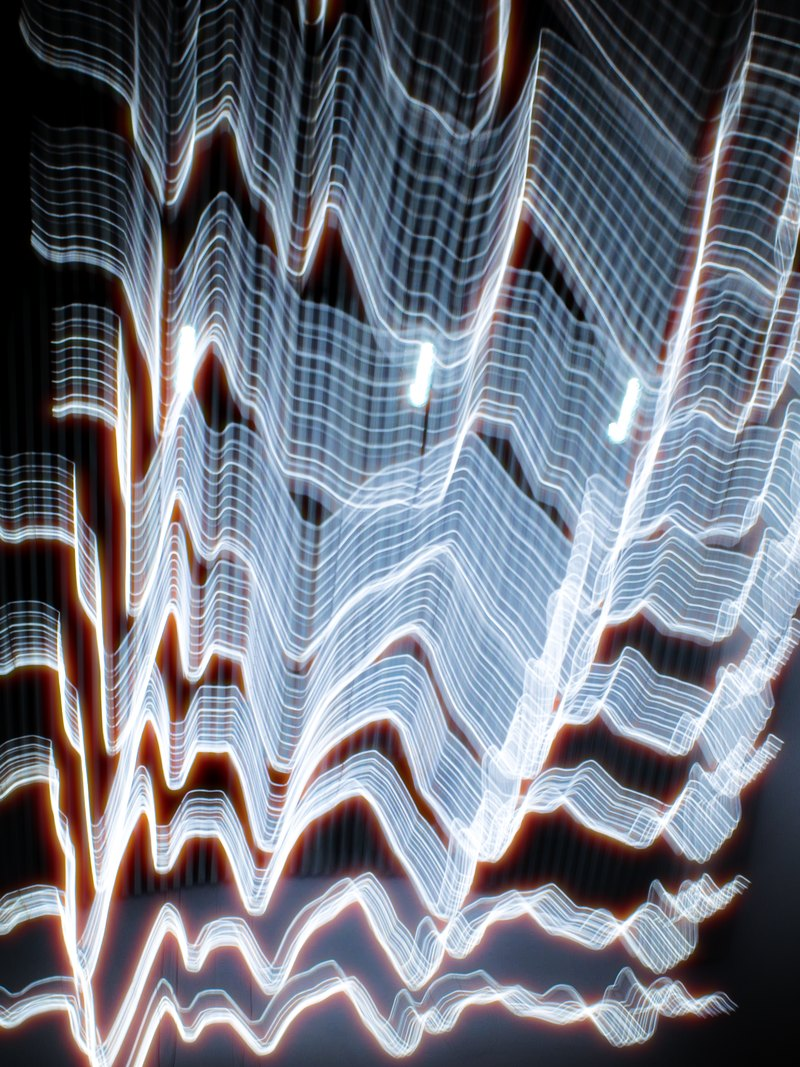
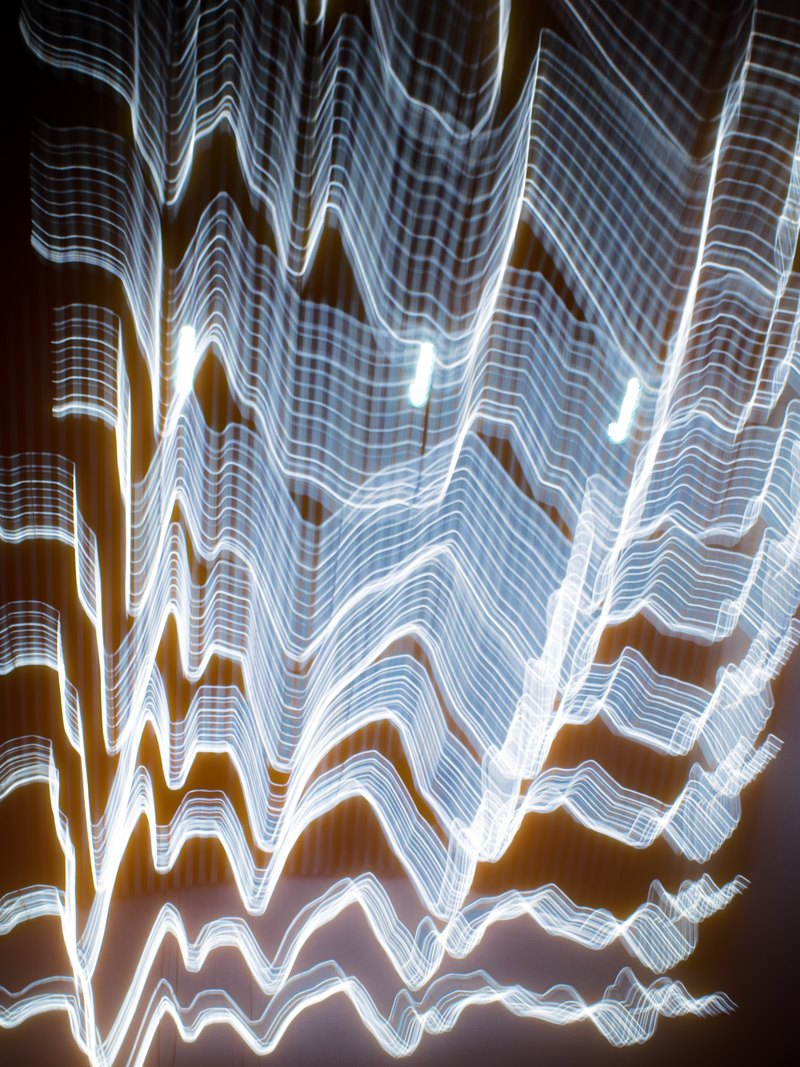
Cook round 4: Roll-off 1 for a softer glow, mist shown on lights, emulator stated, left-aligned sections, export depth and warmth wording fixed

diff --git a/index.html b/index.html
@@ -34,16 +34,16 @@
 </div></nav>
 <main id="main">
 <header class="sec hero" id="top"><div class="wrap">
-<div class="head head--c rise"><h1>Halation that knows where the light is.</h1><p class="lead">Halo Pro is a Mac app that puts film’s red-orange glow beside the brightest light in your photograph, where film would put it.</p><div class="acts"><a class="pill" href="https://alriclj.gumroad.com/l/HALO_PRO?variant=Halo%20Pro%20-%20FREE&amp;wanted=true">Download free</a><a class="textlink" href="https://alriclj.gumroad.com/l/HALO_PRO?variant=Halo%20Pro&amp;wanted=true">Buy Pro for €20</a></div><p class="terms">macOS 14 or later on Apple Silicon. Free for personal work, with every control.</p></div>
+<div class="head head--c rise"><h1>Halation that knows where the light is.</h1><p class="lead">Halo Pro is a halation emulator for the Mac. It puts film’s red-orange glow beside the brightest light in your photograph, where film would put it.</p><div class="acts"><a class="pill" href="https://alriclj.gumroad.com/l/HALO_PRO?variant=Halo%20Pro%20-%20FREE&amp;wanted=true">Download free</a><a class="textlink" href="https://alriclj.gumroad.com/l/HALO_PRO?variant=Halo%20Pro&amp;wanted=true">Buy Pro for €20</a></div><p class="terms">macOS 14 or later on Apple Silicon. Free for personal work, with every control.</p></div>
 </div>
-<div class="stagewide rise"><figure class="flip flip--overlay"><div class="flip-tabs" role="group" aria-label="Which version to show"><button type="button" aria-pressed="false">As opened</button><button type="button" aria-pressed="true">Halo Pro</button></div><div class="flip-frame"><img src="img/cook/hero-opened.jpg" width="1800" height="900" alt="A glass facade at dusk as the file was opened: lit white fins against a dark blue sky" loading="eager" decoding="async"><img class="is-on" src="img/cook/hero-halo.jpg" width="1800" height="900" alt="The same photograph exported from Halo Pro: each lit fin carries a red-orange glow that fades into the dark sky" loading="eager" decoding="async"></div><figcaption class="cap">A lit facade at dusk, as opened and exported at the Default look with Format Super 8. Tap the picture to switch.</figcaption></figure></div>
+<div class="stagewide rise"><figure class="flip flip--overlay"><div class="flip-tabs" role="group" aria-label="Which version to show"><button type="button" aria-pressed="false">As opened</button><button type="button" aria-pressed="true">Halo Pro</button></div><div class="flip-frame"><img src="img/cook/hero-opened.jpg" width="1800" height="900" alt="A glass facade at dusk as the file was opened: lit white fins against a dark blue sky" loading="eager" decoding="async"><img class="is-on" src="img/cook/hero-halo.jpg" width="1800" height="900" alt="The same photograph exported from Halo Pro: each lit fin carries a red-orange glow that fades into the dark sky" loading="eager" decoding="async"></div><figcaption class="cap">A lit facade at dusk: the Default look with Format 16 mm and Roll-off 1. Tap the picture to switch.</figcaption></figure></div>
 </header>
-<section class="sec" id="app"><div class="wrap"><div class="head head--c rise"><h2>Set the glow in one window.</h2><p class="lead">Open a TIFF, PNG or JPEG. Amount sets how much light comes back, Size and the film Format how far it spreads.</p></div></div><div class="window rise"><div class="win-bar" aria-hidden="true"><i></i><i></i><i></i><span>Halo Pro</span></div><picture><source media="(max-width: 700px)" srcset="img/cook/window-phone.jpg"><img src="img/cook/window.jpg" width="2400" height="1450" alt="The Halo Pro window: a photograph in the middle, the Halation controls on the right with Amount, Size and Format" loading="lazy" decoding="async"></picture><p class="cap">Halo Pro 2.3 with the same photograph open: the Default look, Format Super 8.</p></div><div class="wrap"><div class="facts rise"><div class="fact"><b>32-bit float</b><span>at every step, from opening the file to writing it out.</span></div><div class="fact"><b>0.9 seconds</b><span>for a 12-megapixel export on an M3 Max.</span></div><div class="fact"><b>Your profile kept</b><span>sRGB, Display P3, Adobe RGB or ProPhoto RGB: the glow looks the same in each.</span></div></div></div></section>
-<section class="sec" id="made"><div class="wrap"><div class="head head--c rise"><h2>Made with Halo Pro.</h2><p class="lead">Photographs exported from Halo Pro. Switch to As opened to see the files before, or tap a picture.</p></div></div><div class="wrap"><div class="flip-tabs flip-tabs--all" role="group" aria-label="Show every picture as"><button type="button" aria-pressed="false" data-all="0">As opened</button><button type="button" aria-pressed="true" data-all="1">Halo Pro</button></div></div><div class="gallery rise"><div class="row row--12"><figure class="flip flip--quiet"><div class="flip-tabs" role="group" aria-label="Which version to show"><button type="button" aria-pressed="false">As opened</button><button type="button" aria-pressed="true">Halo Pro</button></div><div class="flip-frame"><img src="img/cook/g-trails-opened.jpg" width="800" height="1067" alt="White light trails drawn across a dark frame, as opened" loading="lazy" decoding="async"><img class="is-on" src="img/cook/g-trails-halo.jpg" width="800" height="1067" alt="White light trails drawn across a dark frame, exported from Halo Pro with a red-orange glow at the lights" loading="lazy" decoding="async"></div><figcaption class="cap">Light trails. Default look, Format 16 mm.</figcaption></figure><figure class="flip flip--quiet"><div class="flip-tabs" role="group" aria-label="Which version to show"><button type="button" aria-pressed="false">As opened</button><button type="button" aria-pressed="true">Halo Pro</button></div><div class="flip-frame"><img src="img/cook/g-water-opened.jpg" width="1600" height="1067" alt="A figure with an oar against the sun on water, the shoreline lit, as opened" loading="lazy" decoding="async"><img class="is-on" src="img/cook/g-water-halo.jpg" width="1600" height="1067" alt="A figure with an oar against the sun on water, the shoreline lit, exported from Halo Pro with a red-orange glow at the lights" loading="lazy" decoding="async"></div><figcaption class="cap">Low sun on water. Default look, Format Super 8.</figcaption></figure></div><div class="row row--21"><figure class="flip flip--quiet"><div class="flip-tabs" role="group" aria-label="Which version to show"><button type="button" aria-pressed="false">As opened</button><button type="button" aria-pressed="true">Halo Pro</button></div><div class="flip-frame"><img src="img/cook/g-skiers-opened.jpg" width="1600" height="1067" alt="Two skiers on a ridge against a low sun, snow spray lit from behind, as opened" loading="lazy" decoding="async"><img class="is-on" src="img/cook/g-skiers-halo.jpg" width="1600" height="1067" alt="Two skiers on a ridge against a low sun, snow spray lit from behind, exported from Halo Pro with a red-orange glow at the lights" loading="lazy" decoding="async"></div><figcaption class="cap">Skiers against the sun. Default look, Format Super 8.</figcaption></figure><figure class="flip flip--quiet"><div class="flip-tabs" role="group" aria-label="Which version to show"><button type="button" aria-pressed="false">As opened</button><button type="button" aria-pressed="true">Halo Pro</button></div><div class="flip-frame"><img src="img/cook/g-lights-opened.jpg" width="800" height="1067" alt="Out-of-focus lights on black, as opened" loading="lazy" decoding="async"><img class="is-on" src="img/cook/g-lights-halo.jpg" width="800" height="1067" alt="Out-of-focus lights on black, exported from Halo Pro with a red-orange glow at the lights" loading="lazy" decoding="async"></div><figcaption class="cap">Lights at night. Default look, Format Super 8.</figcaption></figure></div></div><div class="wrap"><p class="cap gallery-note">The Default look has Mist at Density 0.30 and Warmth on highlights 1. Each picture was exported as it came out.</p></div></section>
-<section class="sec" id="light"><div class="wrap"><div class="head rise"><h2>Bright areas keep their colour.</h2><p class="lead">The usual shortcut blurs everything bright and tints it red, so a pale sky turns pink and a grey wall goes warm. Halo Pro works out where film would send light back: the glow lands beside the lights, and a bright surface keeps the colour it had.</p></div></div><div class="wrap"><figure class="stack stack--3 rise"><div class="stack-i"><p class="stack-l">As opened</p><img src="img/cook/ridge-opened.jpg" width="1000" height="667" alt="A figure on a ridge against a pale blue-white sky, as opened" loading="lazy" decoding="async"></div><div class="stack-i"><p class="stack-l">Red blur</p><img src="img/cook/ridge-blur.jpg" width="1000" height="667" alt="The same detail through a red blur: the sky behind the figure has turned pink" loading="lazy" decoding="async"></div><div class="stack-i"><p class="stack-l">Halo Pro</p><img src="img/cook/ridge-halo.jpg" width="1000" height="667" alt="The same detail from Halo Pro: the sky is the colour it was, with a red-orange glow along the ridge and the figure" loading="lazy" decoding="async"></div><figcaption class="cap">A figure on a ridge, shown at full size. Red blur: our own render, everything bright blurred and tinted. Halo Pro: halation only, Format 16 mm, Amount 1, Warmth on highlights 0, Mist off.</figcaption></figure></div><div class="stagewide rise"><figure class="flip"><div class="flip-tabs" role="group" aria-label="Which version to show"><button type="button" aria-pressed="false">As opened</button><button type="button" aria-pressed="true">Halo Pro</button></div><div class="flip-frame"><img src="img/cook/hair-opened.jpg" width="1800" height="1011" alt="A skier in a helmet and goggles, backlit, hair blowing out against a blue sky with out-of-focus blue lights, as opened" loading="lazy" decoding="async"><img class="is-on" src="img/cook/hair-halo.jpg" width="1800" height="1011" alt="The same photograph from Halo Pro: the backlit hair carries a red-orange glow; the helmet, the sky and the blue lights are as they were" loading="lazy" decoding="async"></div><figcaption class="cap">Backlit hair, halation only at Format 16 mm, Amount 1, Warmth on highlights 0, Mist off. The helmet, the sky and the blue lights measure the same as opened.</figcaption></figure></div></section>
+<section class="sec" id="app"><div class="wrap"><div class="head rise"><h2>Set the glow in one window.</h2><p class="lead">Open a TIFF, PNG or JPEG, set how much light comes back and how far it spreads, and export.</p></div></div><div class="window rise"><div class="win-bar" aria-hidden="true"><i></i><i></i><i></i><span>Halo Pro</span></div><picture><source media="(max-width: 700px)" srcset="img/cook/window-phone.jpg"><img src="img/cook/window.jpg" width="2400" height="1450" alt="The Halo Pro window: a photograph in the middle, the Halation controls on the right with Amount, Size and Format" loading="lazy" decoding="async"></picture><p class="cap">Halo Pro 2.3 with the same photograph open: the Default look, Format Super 8.</p></div><div class="wrap"><div class="facts rise"><div class="fact"><b>32-bit float</b><span>at every step, from opening the file to writing it out.</span></div><div class="fact"><b>0.9 seconds</b><span>for a 12-megapixel export on an M3 Max.</span></div><div class="fact"><b>Your profile kept</b><span>sRGB, Display P3, Adobe RGB or ProPhoto RGB: the glow looks the same in each.</span></div></div></div></section>
+<section class="sec" id="made"><div class="wrap"><div class="head rise"><h2>Made with Halo Pro.</h2><p class="lead">Photographs exported from Halo Pro.</p></div></div><div class="wrap"><div class="flip-tabs flip-tabs--all" role="group" aria-label="Show every picture as"><button type="button" aria-pressed="false" data-all="0">As opened</button><button type="button" aria-pressed="true" data-all="1">Halo Pro</button></div></div><div class="gallery rise"><div class="row row--21"><figure class="flip flip--quiet"><div class="flip-tabs" role="group" aria-label="Which version to show"><button type="button" aria-pressed="false">As opened</button><button type="button" aria-pressed="true">Halo Pro</button></div><div class="flip-frame"><img src="img/cook/g-fjord-opened.jpg" width="1600" height="1067" alt="Two hands framing a fjord with snowy mountains and a lit town, as opened" loading="lazy" decoding="async"><img class="is-on" src="img/cook/g-fjord-halo.jpg" width="1600" height="1067" alt="Two hands framing a fjord with snowy mountains and a lit town, exported from Halo Pro with a soft red-orange glow beside the lights" loading="lazy" decoding="async"></div><figcaption class="cap">A fjord framed by two hands.</figcaption></figure><figure class="flip flip--quiet"><div class="flip-tabs" role="group" aria-label="Which version to show"><button type="button" aria-pressed="false">As opened</button><button type="button" aria-pressed="true">Halo Pro</button></div><div class="flip-frame"><img src="img/cook/g-trails-opened.jpg" width="800" height="1067" alt="White light trails drawn across a dark frame, as opened" loading="lazy" decoding="async"><img class="is-on" src="img/cook/g-trails-halo.jpg" width="800" height="1067" alt="White light trails drawn across a dark frame, exported from Halo Pro with a soft red-orange glow beside the lights" loading="lazy" decoding="async"></div><figcaption class="cap">Light trails.</figcaption></figure></div><div class="row row--12"><figure class="flip flip--quiet"><div class="flip-tabs" role="group" aria-label="Which version to show"><button type="button" aria-pressed="false">As opened</button><button type="button" aria-pressed="true">Halo Pro</button></div><div class="flip-frame"><img src="img/cook/g-lights-opened.jpg" width="800" height="1067" alt="Out-of-focus lights on black, as opened" loading="lazy" decoding="async"><img class="is-on" src="img/cook/g-lights-halo.jpg" width="800" height="1067" alt="Out-of-focus lights on black, exported from Halo Pro with a soft red-orange glow beside the lights" loading="lazy" decoding="async"></div><figcaption class="cap">Lights at night.</figcaption></figure><figure class="flip flip--quiet"><div class="flip-tabs" role="group" aria-label="Which version to show"><button type="button" aria-pressed="false">As opened</button><button type="button" aria-pressed="true">Halo Pro</button></div><div class="flip-frame"><img src="img/cook/g-water-opened.jpg" width="1600" height="1067" alt="A figure with an oar against the sun on water, the shoreline lit, as opened" loading="lazy" decoding="async"><img class="is-on" src="img/cook/g-water-halo.jpg" width="1600" height="1067" alt="A figure with an oar against the sun on water, the shoreline lit, exported from Halo Pro with a soft red-orange glow beside the lights" loading="lazy" decoding="async"></div><figcaption class="cap">Low sun on water.</figcaption></figure></div></div><div class="wrap"><p class="cap gallery-note">All four: the Default look (Mist at Density 0.30, Warmth on highlights 1) with Format 16 mm and Roll-off 1, exported as it came out.</p></div></section>
+<section class="sec" id="light"><div class="wrap"><div class="head rise"><h2>Bright areas keep their colour.</h2><p class="lead">The usual shortcut blurs everything bright and tints it red, so a pale sky turns pink and a grey wall goes warm. Halo Pro works out where film would send light back: the glow lands beside the lights, and a bright surface gets no red cast.</p></div></div><div class="wrap"><figure class="stack stack--3 rise"><div class="stack-i"><p class="stack-l">As opened</p><img src="img/cook/ridge-opened.jpg" width="1000" height="667" alt="A figure on a ridge against a pale blue-white sky, as opened" loading="lazy" decoding="async"></div><div class="stack-i"><p class="stack-l">Red blur</p><img src="img/cook/ridge-blur.jpg" width="1000" height="667" alt="The same detail through a red blur: the sky behind the figure has turned pink" loading="lazy" decoding="async"></div><div class="stack-i"><p class="stack-l">Halo Pro</p><img src="img/cook/ridge-halo.jpg" width="1000" height="667" alt="The same detail from Halo Pro: the sky is the colour it was, with a red-orange glow along the ridge and the figure" loading="lazy" decoding="async"></div><figcaption class="cap">A figure on a ridge, shown at full size. Red blur: our own render, everything bright blurred and tinted. Halo Pro: halation only, Format 16 mm, Amount 1, Warmth on highlights 0, Mist off.</figcaption></figure></div><div class="stagewide rise"><figure class="flip"><div class="flip-tabs" role="group" aria-label="Which version to show"><button type="button" aria-pressed="false">As opened</button><button type="button" aria-pressed="true">Halo Pro</button></div><div class="flip-frame"><img src="img/cook/hair-opened.jpg" width="1800" height="1011" alt="A skier in a helmet and goggles, backlit, hair blowing out against a blue sky with out-of-focus blue lights, as opened" loading="lazy" decoding="async"><img class="is-on" src="img/cook/hair-halo.jpg" width="1800" height="1011" alt="The same photograph from Halo Pro: the backlit hair carries a red-orange glow; the helmet, the sky and the blue lights are as they were" loading="lazy" decoding="async"></div><figcaption class="cap">Backlit hair, halation only at Format 16 mm, Amount 1, Warmth on highlights 0, Mist off. The helmet, the sky and the blue lights measure the same as opened.</figcaption></figure></div></section>
 <section class="sec" id="lightroom"><div class="wrap"><div class="head rise"><h2>Lightroom has halation now. Compare.</h2><p class="lead">One test file through Lightroom’s Halation at its smallest Spread, and through Halo Pro with a glow a little wider. In Lightroom the light grey turns pink and the cyan almost white, and the red end gets no glow. Halo Pro keeps the bars’ colours and glows red and orange where film would.</p></div></div><div class="wrap"><figure class="stack stack--1 rise"><div class="stack-i"><p class="stack-l">Test file</p><img src="img/cook/bars-source.jpg" width="1808" height="530" alt="Three bars of light on black: a white bar fading to dark, a grey bar with a hot white centre, and a full spectrum from red through blue, green and yellow to orange" loading="lazy" decoding="async"></div><div class="stack-i"><p class="stack-l">Lightroom 10.0</p><img src="img/cook/bars-lightroom.jpg" width="1808" height="530" alt="The bars through Lightroom’s Halation: a pink-red haze around the bright parts, the grey and pale parts of the bars turned pink and white, no glow at the red end" loading="lazy" decoding="async"></div><div class="stack-i"><p class="stack-l">Halo Pro 2.3</p><img src="img/cook/bars-halopro.jpg" width="1808" height="530" alt="The bars through Halo Pro: the bars keep their colours, a red-orange glow at the white end and along the red and orange parts of the spectrum, none at the blue" loading="lazy" decoding="async"></div></figure></div><div class="wrap"><div class="numbers rise"><div class="num"><b>36% <em>/</em> 2.7%</b><span>of the pixels inside the bars changed by more than 8 levels: Lightroom, then Halo Pro.</span></div><div class="num"><b>210 → 253</b><span>A light grey of 210 comes out of Lightroom at 253, 213, 214: pink. Halo Pro leaves it at 210.</span></div><div class="num"><b>0 <em>/</em> 96</b><span>Levels of red glow beside the red end of the spectrum, out of 255: Lightroom, then Halo Pro.</span></div></div><p class="cap">An 8-bit test file 2,048 pixels wide. Lightroom 10.0, Halation, Spread 0, as exported. Halo Pro 2.3, Format Super 8, Amount 1, Warmth on highlights 0, Mist off. Their glows reach 24 and 30 pixels past the white bar.</p></div></section>
-<section class="sec" id="mist"><div class="wrap"><div class="head head--c rise"><h2>Mist, chosen after the shoot.</h2><p class="lead">A mist filter on the lens scatters highlight light into the shadows. In Halo Pro it is its own stage after the halation, with <b>Density</b> and <b>Spread</b> you can change until you export.</p></div></div><div class="wrap"><figure class="stack stack--2 rise"><div class="stack-i"><p class="stack-l">Mist off</p><img src="img/cook/mist-off.jpg" width="1200" height="800" alt="Two skiers against a low sun with halation only: a hard bright sun and clear dark snow below" loading="lazy" decoding="async"></div><div class="stack-i"><p class="stack-l">Mist on</p><img src="img/cook/mist-on.jpg" width="1200" height="800" alt="The same export with Mist on: the sun spreads into a soft veil over the skiers, and the dark snow lifts" loading="lazy" decoding="async"></div><figcaption class="cap">Skiers against a low sun, the same halation in both (Format 16 mm). Mist on: Density 1.00, Spread 50, Softness 1.00. The Default look uses Density 0.30, a much lighter veil.</figcaption></figure></div></section>
-<section class="sec" id="workflow"><div class="wrap"><div class="head rise"><h2>Fits anywhere a TIFF does.</h2><p class="lead">Use it at the end of the edit or in the middle of a grade. A 16-bit TIFF comes back at 16 bits, a 32-bit float TIFF as float.</p></div></div><div class="wrap"><ol class="chain rise" aria-label="Where Halo Pro sits"><li><b>Raw developer</b><span>or the retouch</span></li><li><b>TIFF</b><span>16-bit or 32-bit float</span></li><li class="is-hp"><b>Halo Pro</b><span>halation, mist</span></li><li><b>TIFF</b><span>same profile</span></li><li><b>Grade, grain</b><span>and delivery</span></li></ol></div><div class="wrap"><div class="rows rise"><div class="row-i"><h3>Round trip</h3><p>From Lightroom Classic, Edit In hands over a TIFF and Save and return writes a 16-bit TIFF back.</p></div><div class="row-i"><h3>Before grain</h3><p>Run it before grain, so the grain sits on top of the glow.</p></div><div class="row-i"><h3>32-bit float</h3><p>A 32-bit float TIFF holds light above white, and there a sun glows more than a white shirt. A 32-bit float export keeps that light, unless a LUT after the mist, or Bloom, clips it.</p></div><div class="row-i"><h3>Volume</h3><p>Batch Mode takes up to 500 files, each with its own settings; Apply to All copies one look across the set.</p></div></div><p class="cap">No raw files: send a TIFF. One .cube LUT sits before the halation or after the mist. The round trip and Batch Mode need Pro.</p></div></section>
+<section class="sec" id="mist"><div class="wrap"><div class="head rise"><h2>Mist, chosen after the shoot.</h2><p class="lead">A mist filter on the lens scatters highlight light into the shadows. Here it is a stage after the halation, and its strength stays open until you export.</p></div></div><div class="wrap"><figure class="stack stack--2 rise"><div class="stack-i"><p class="stack-l">Mist off</p><img src="img/cook/mist-off.jpg" width="1366" height="911" alt="Out-of-focus lights on black with halation only: a red-orange rim on each light and hard black between them" loading="lazy" decoding="async"></div><div class="stack-i"><p class="stack-l">Mist on</p><img src="img/cook/mist-on.jpg" width="1366" height="911" alt="The same export with Mist on: a soft pale veil spreads from the lights across the black" loading="lazy" decoding="async"></div><figcaption class="cap">Lights at night, the same halation in both (Format 16 mm). Mist on: Density 1.00, Spread 50, Softness 1.00. The Default look uses Density 0.30, a much lighter veil.</figcaption></figure></div></section>
+<section class="sec" id="workflow"><div class="wrap"><div class="head rise"><h2>Fits anywhere a TIFF does.</h2><p class="lead">Use it at the end of the edit or in the middle of a grade. Open a 16-bit or 32-bit float TIFF and export at 16 bits or as 32-bit float.</p></div></div><div class="wrap"><ol class="chain rise" aria-label="Where Halo Pro sits"><li><b>Raw developer</b><span>or the retouch</span></li><li><b>TIFF</b><span>16-bit or 32-bit float</span></li><li class="is-hp"><b>Halo Pro</b><span>halation, mist</span></li><li><b>TIFF</b><span>same profile</span></li><li><b>Grade, grain</b><span>and delivery</span></li></ol></div><div class="wrap"><div class="rows rise"><div class="row-i"><h3>Round trip</h3><p>From Lightroom Classic, Edit In hands over a TIFF and Save and return writes a 16-bit TIFF back.</p></div><div class="row-i"><h3>Before grain</h3><p>Run it before grain, so the grain sits on top of the glow.</p></div><div class="row-i"><h3>32-bit float</h3><p>A 32-bit float TIFF holds light above white, and there a sun glows more than a white shirt. A 32-bit float export keeps that light, unless a LUT after the mist, or Bloom, clips it.</p></div><div class="row-i"><h3>Volume</h3><p>Batch Mode takes up to 500 files, each with its own settings; Apply to All copies one look across the set.</p></div></div><p class="cap">No raw files: send a TIFF. One .cube LUT sits before the halation or after the mist. The round trip and Batch Mode need Pro.</p></div></section>
 <section class="sec" id="price"><div class="wrap"><div class="head rise"><h2>Free for personal work, €20 for paid.</h2><p class="lead">Bought once, no subscription.</p></div></div><div class="wrap"><div class="plans rise"><div class="plan"><h3>Free</h3><p class="price">€0</p><p>Personal use. Every control and mask view, LUTs and presets, full-resolution export up to 32-bit float. A licence screen at each launch.</p><a class="pill pill--ghost" href="https://alriclj.gumroad.com/l/HALO_PRO?variant=Halo%20Pro%20-%20FREE&amp;wanted=true">Download</a></div><div class="plan plan--main"><h3>Halo Pro</h3><p class="price">€20 <small>once</small></p><p>Paid work, for one person. Adds Lightroom Mode (Edit In, Save and return) and Batch Mode.</p><a class="pill" href="https://alriclj.gumroad.com/l/HALO_PRO?variant=Halo%20Pro&amp;wanted=true">Buy Halo Pro</a></div><div class="plan"><h3>Organisation</h3><p class="price">€60 <small>once</small></p><p>Studios and companies, for several people. Everything in Halo Pro.</p><a class="pill pill--ghost" href="https://alriclj.gumroad.com/l/HALO_PRO?variant=Halo%20Pro%20-%20Organisation&amp;wanted=true">Buy for an organisation</a></div></div><div class="small-print"><p>macOS 14 Sonoma or later on a Mac with Apple Silicon (M1 or newer). Up to 100 MP and 500 MB per file. Signed, and notarised by Apple.</p><p>Halo Pro 2.3 is a beta, and updates are free. Two known limits: very fine diagonal stripes (blinds, grilles, fine cloth) can show broad orange and grey bands in the glow, and very big glows (Size above about 5) can land unevenly on faces and trees.</p></div><details class="more"><summary>Install, upgrading and what is coming</summary><div class="more-body"><p>Open the DMG from Gumroad and drag Halo Pro to Applications. To activate Pro, enter the licence key from your Gumroad download page under Settings › Help › Enter License Key. It is checked online once, then works offline.</p><p>2.3 is a free update for everyone who has 1.x or an earlier 2.x beta: it is in your Gumroad library, and your key still works.</p><p>Coming next, without dates: a new control panel with Film and Creative sections and starting looks; a better big glow, a halation ring, light streaks, an oval glow and a white bloom; raw, DNG and HEIC opened directly, and more export colour spaces.</p><p>Settings › Help › Report Bug copies a report with the log; paste it into an email.</p><p>A digital download has no refunds.</p></div></details></div></section>
 </main>
 <footer class="foot"><div class="wrap">
